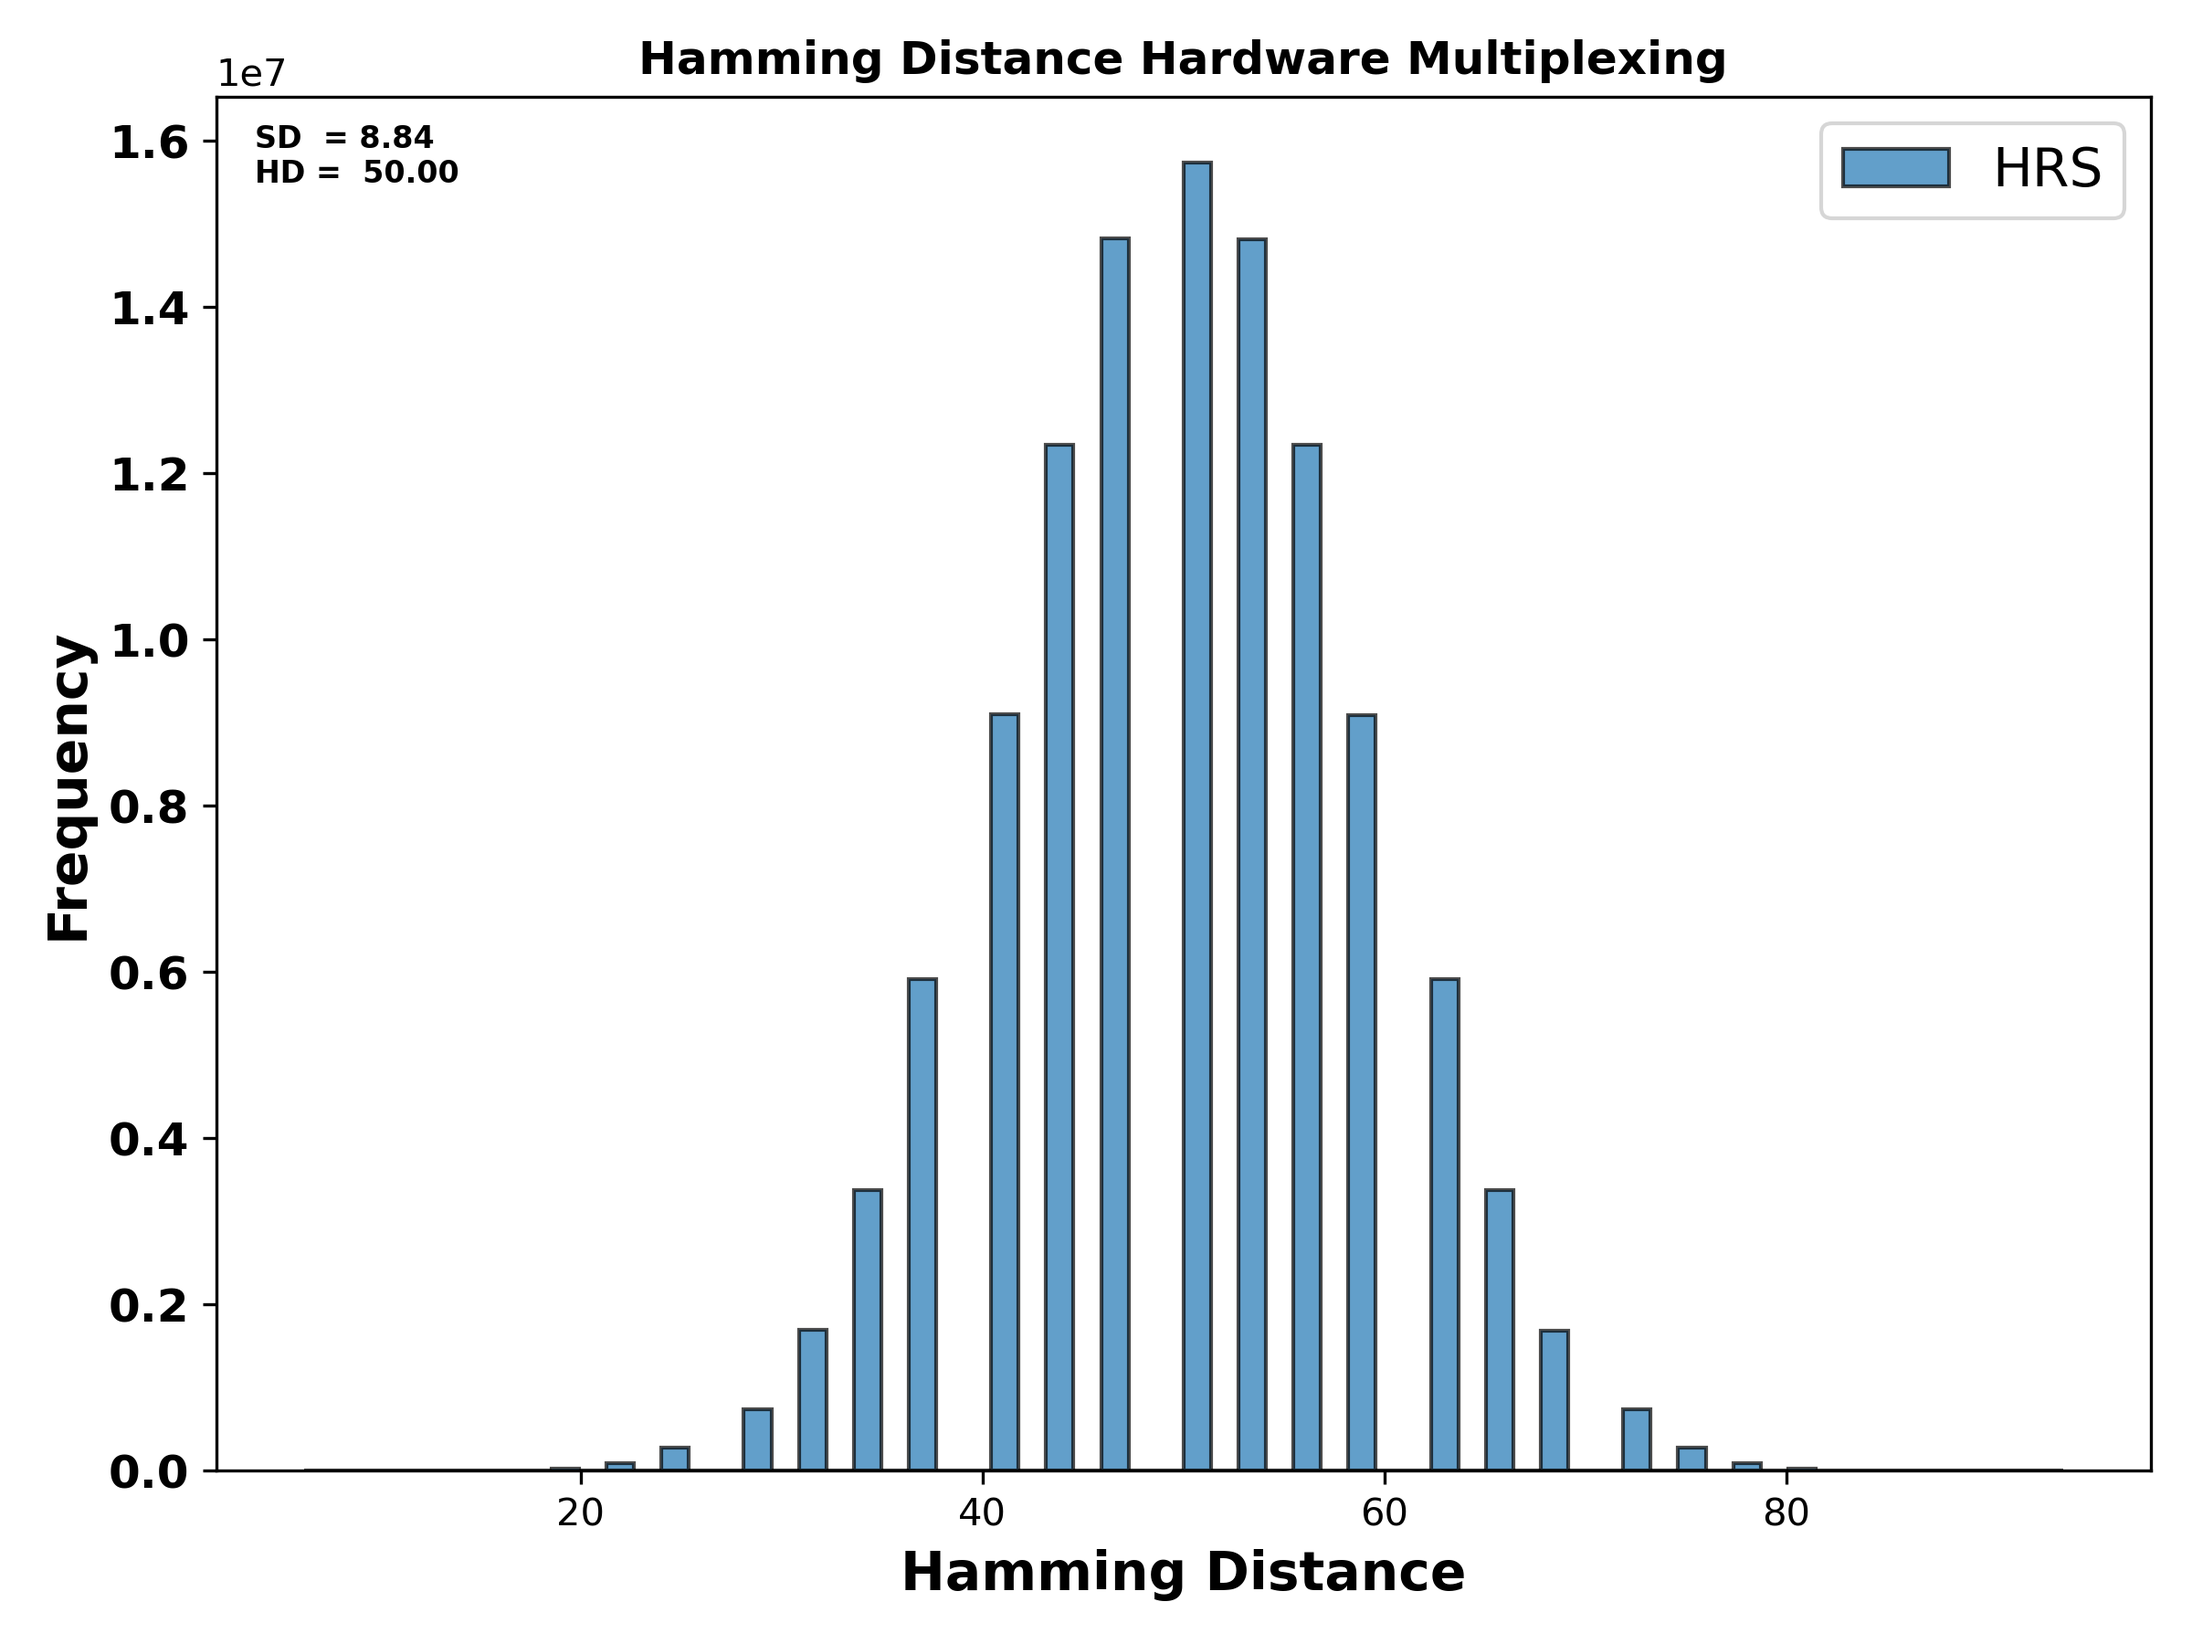
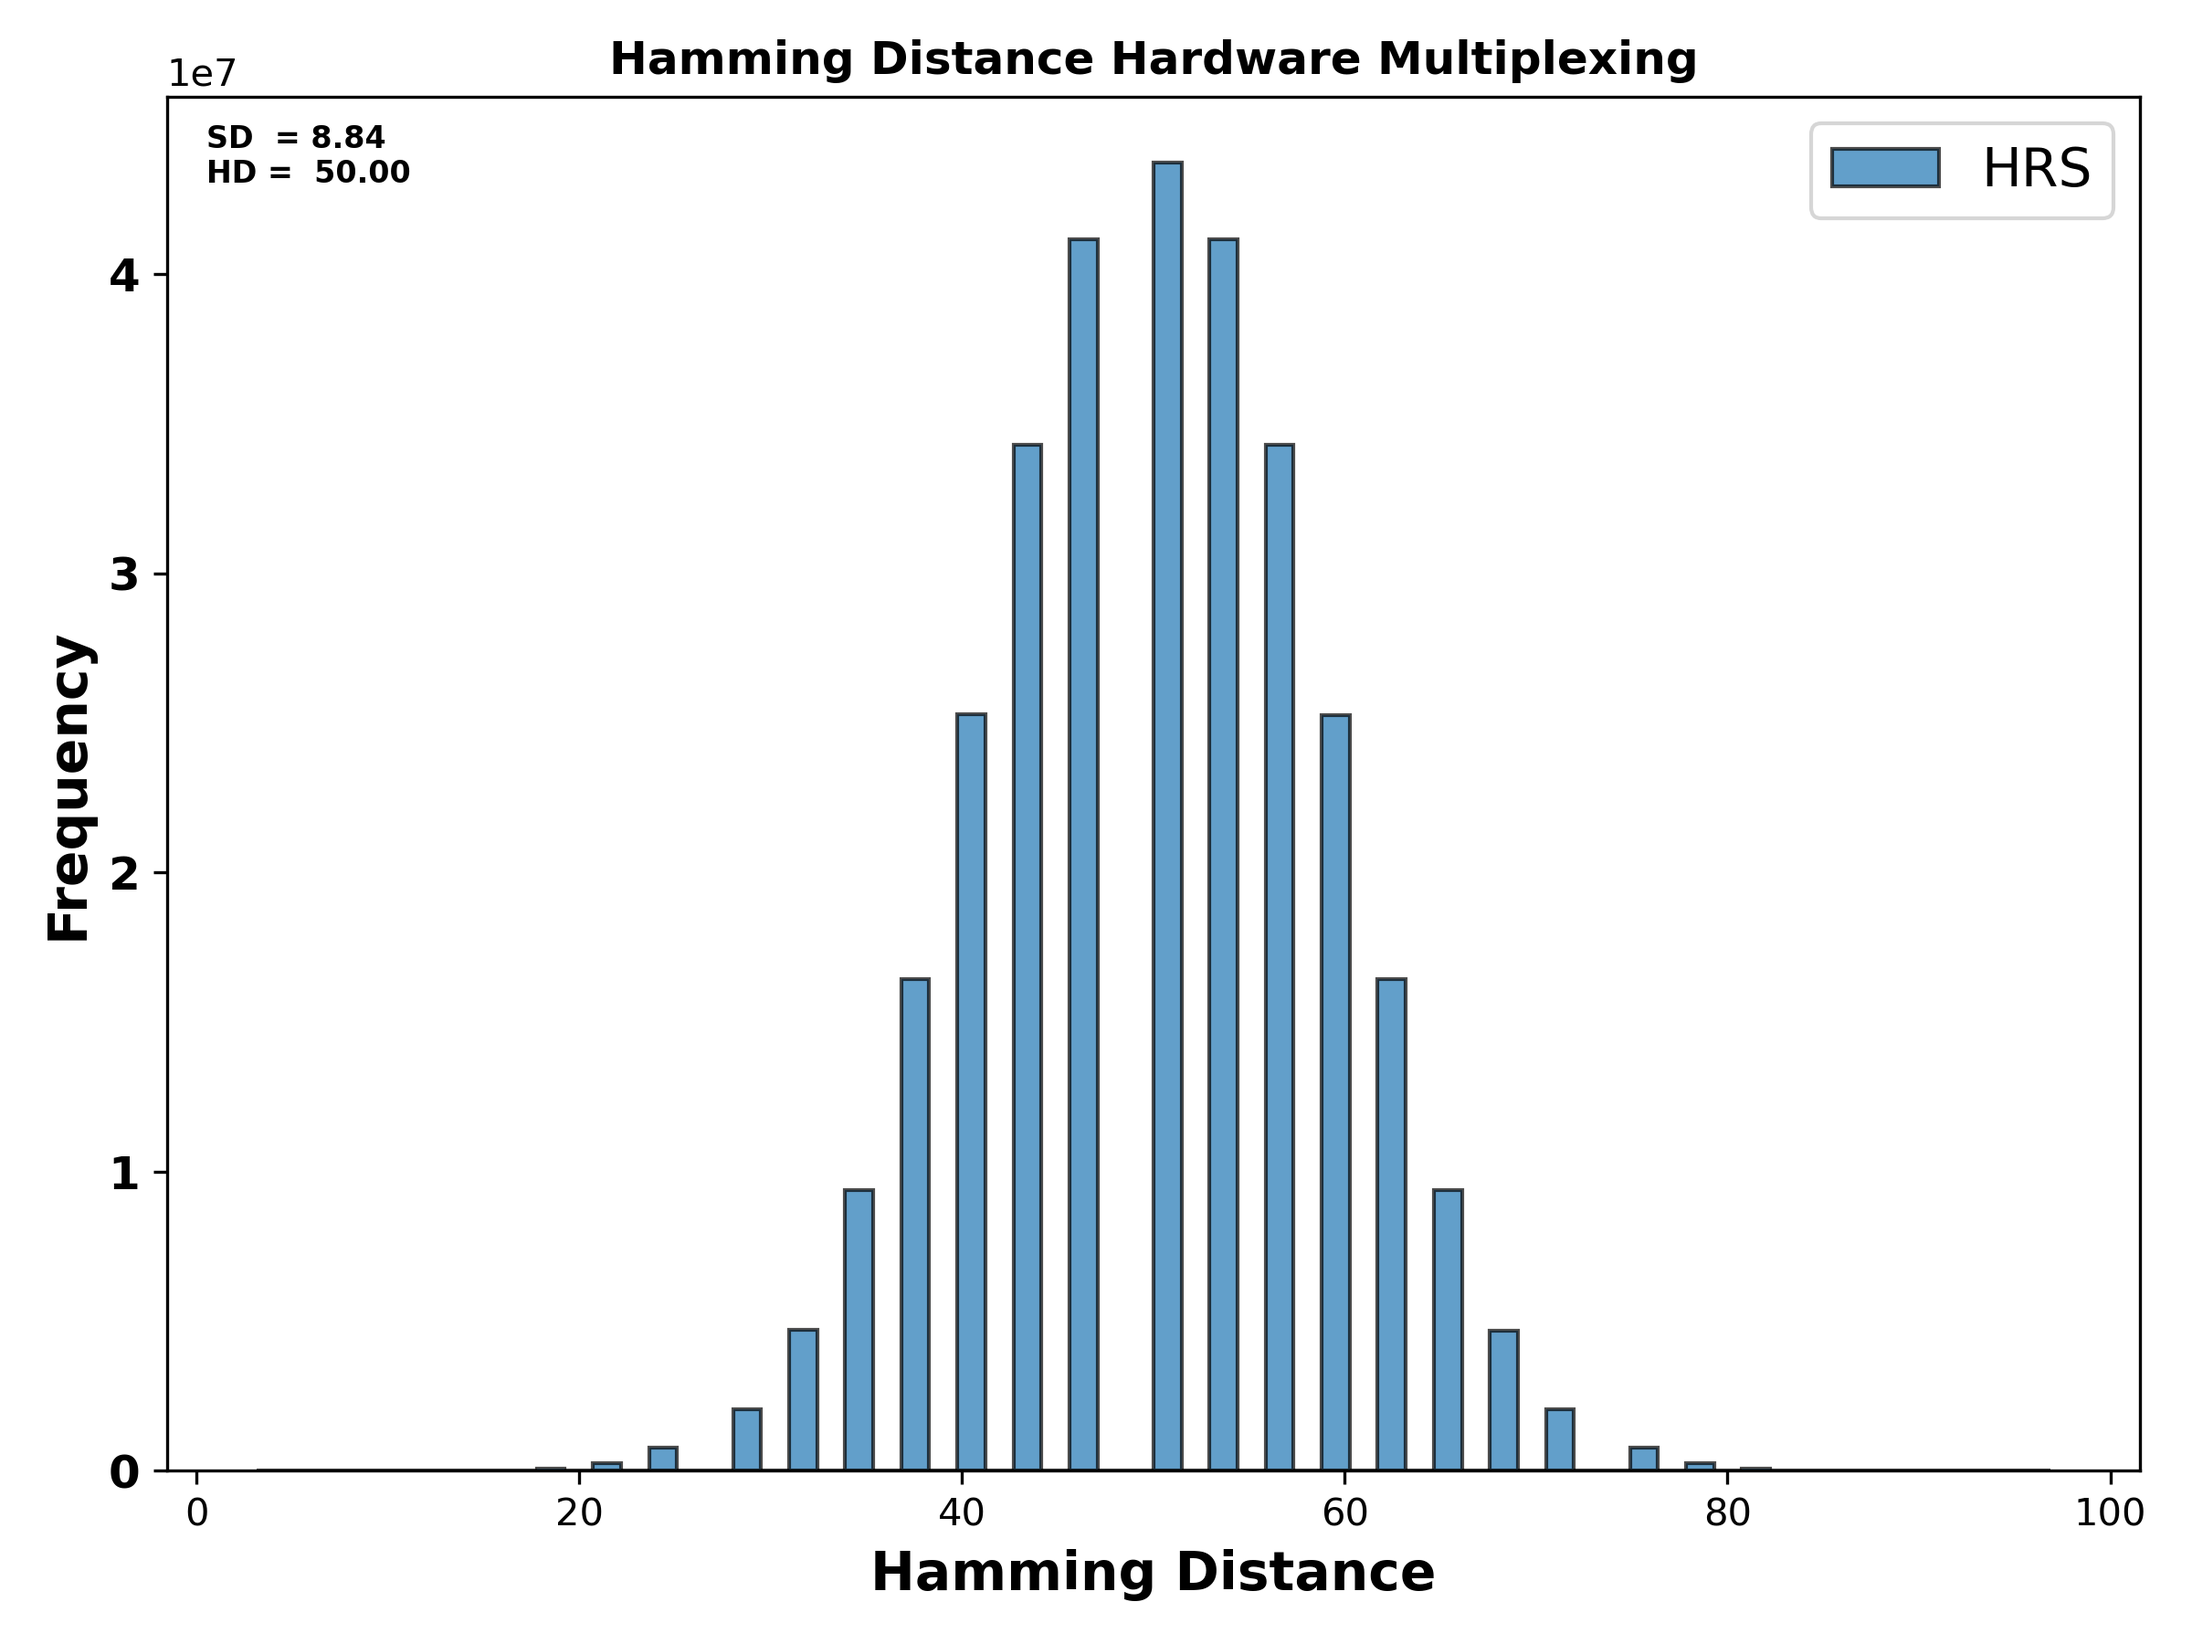
lab main

diff --git a/hamming_distance_cal.py b/hamming_distance_cal.py
@@ -131,7 +131,7 @@ if __name__ == "__main__":
     # state = "HRS"
     state = ["LRS","HRS"]
 
-    noOfRes = 25000
+    noOfRes = 30000
 
     for i in range(2):
         architectire = arch[i]
